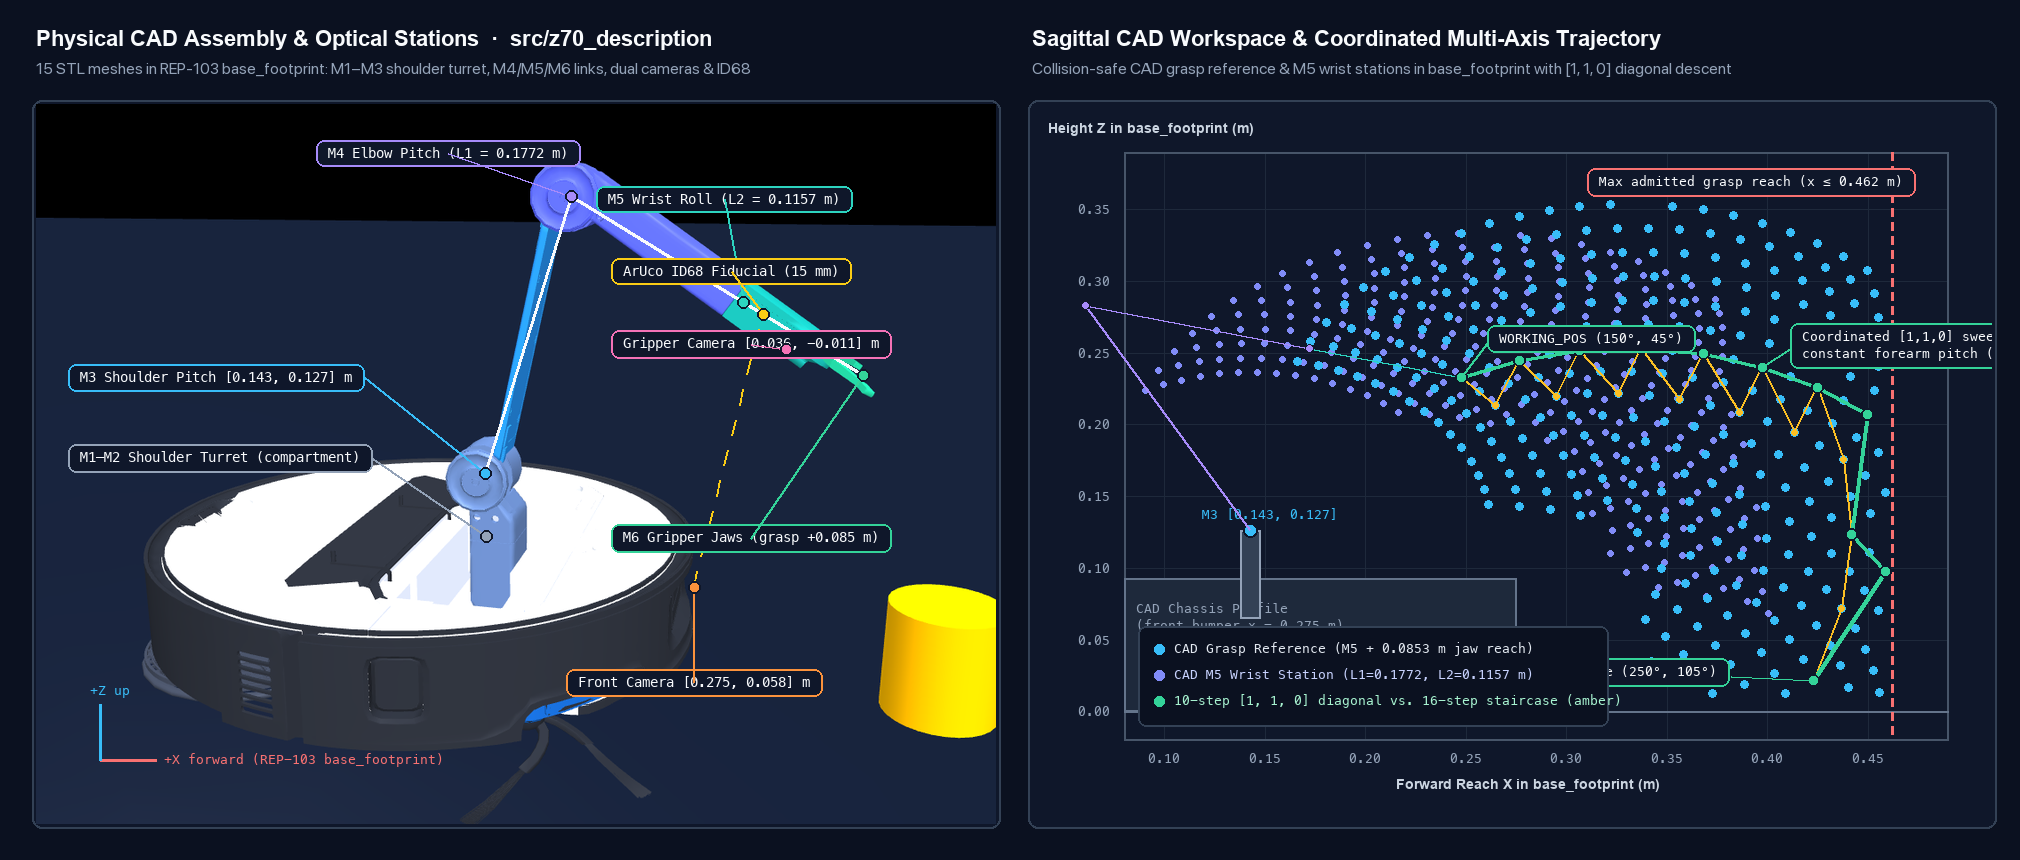
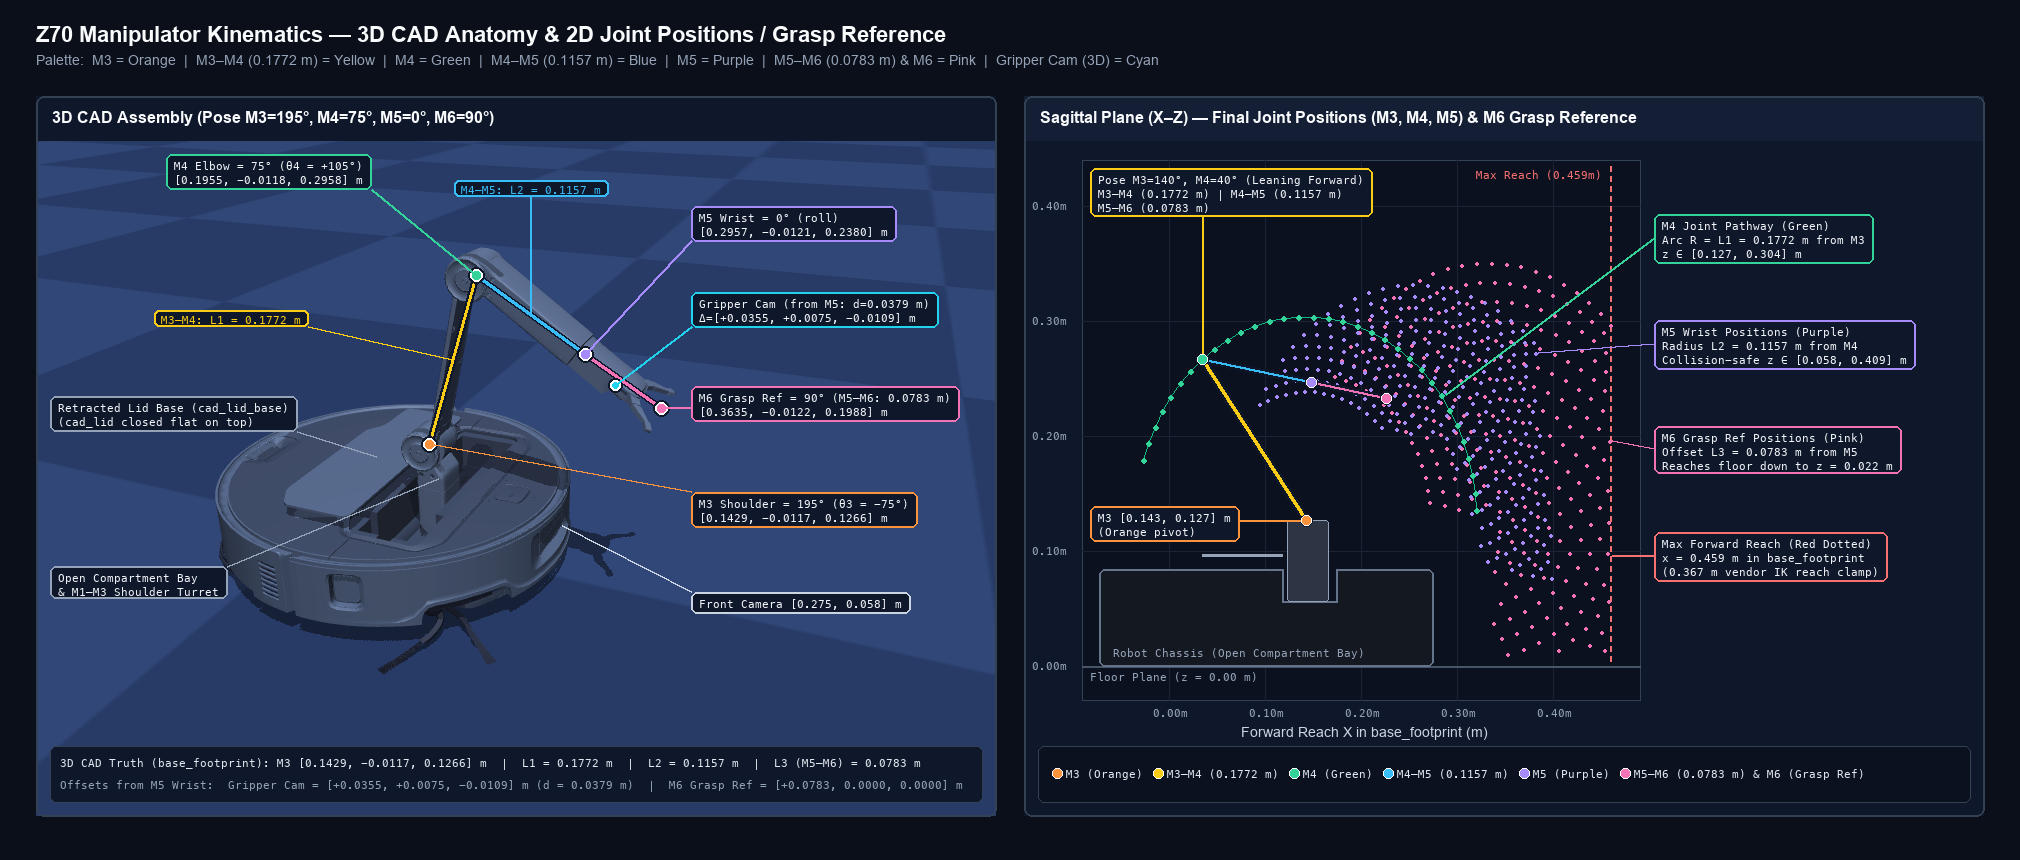
refactor: update arm kinematics and CAD integration; enhance simulation visuals

diff --git a/src/z70_sim/z70_sim/world.py b/src/z70_sim/z70_sim/world.py
@@ -285,10 +285,17 @@ class SimWorld:
     <texture name="floor_tex" type="2d" file="{self.floor_tex_path}"/>
     <material name="floor_mat" texture="floor_tex" texrepeat="2 2" texuniform="true" reflectance="0" specular="0"/>
     <material name="wall_mat" rgba="0.86 0.86 0.84 1" reflectance="0" specular="0"/>
-    <material name="body_mat" rgba="0.96 0.96 0.96 1" specular="0.05"/>
-    <material name="dark_mat" rgba="0.14 0.14 0.15 1" specular="0.05"/>
+    <material name="body_mat" rgba="0.14 0.16 0.20 1" specular="0.20"/>
+    <material name="dark_mat" rgba="0.10 0.11 0.14 1" specular="0.15"/>
     <mesh name="cad_body" file="cad_body.stl"/>
+    <mesh name="cad_lid_base" file="cad_lid_base.stl"/>
+    <mesh name="cad_lid" file="cad_lid.stl"/>
     <mesh name="cad_bumper_front" file="cad_bumper_front.stl"/>
+    <mesh name="cad_bumper_rear" file="cad_bumper_rear.stl"/>
+    <mesh name="cad_wheels" file="cad_wheels.stl"/>
+    <mesh name="cad_mops" file="cad_mops.stl"/>
+    <mesh name="cad_spinners" file="cad_spinners.stl"/>
+    <mesh name="cad_shoulder_mount" file="cad_shoulder_mount.stl"/>
     <mesh name="cad_link1" file="cad_link1.stl"/>
     <mesh name="cad_link2" file="cad_link2.stl"/>
     <mesh name="cad_hand" file="cad_hand.stl"/>
@@ -310,6 +317,16 @@ class SimWorld:
       <joint name="base_yaw" type="hinge" axis="0 0 1"/>
       <geom name="chassis_visual" type="mesh" mesh="cad_body" material="body_mat" contype="0" conaffinity="0"/>
       <geom name="bumper_visual" type="mesh" mesh="cad_bumper_front" material="dark_mat" contype="0" conaffinity="0"/>
+      <geom name="bumper_rear_visual" type="mesh" mesh="cad_bumper_rear" material="dark_mat" contype="0" conaffinity="0"/>
+      <geom name="wheels_visual" type="mesh" mesh="cad_wheels" material="dark_mat" contype="0" conaffinity="0"/>
+      <geom name="mops_visual" type="mesh" mesh="cad_mops" material="dark_mat" contype="0" conaffinity="0"/>
+      <geom name="spinners_visual" type="mesh" mesh="cad_spinners" material="dark_mat" contype="0" conaffinity="0"/>
+      <body name="arm_lid_base" pos="0 0 0">
+        <geom name="lid_base_visual" type="mesh" mesh="cad_lid_base" material="dark_mat" contype="0" conaffinity="0"/>
+        <body name="arm_compartment_lid" pos="0.0348 0 0.0966">
+          <geom name="lid_visual" type="mesh" mesh="cad_lid" material="dark_mat" contype="0" conaffinity="0"/>
+        </body>
+      </body>
 
       <camera name="front" pos="{self.cal['front_camera_x_m']} 0 {cam.h / 1000.0}" xyaxes="{front_xy}"
               resolution="1600 1200" sensorsize="1.6 1.2" focalpixel="{cam.f} {cam.f}"
@@ -317,6 +334,7 @@ class SimWorld:
 
       <body name="arm_vendor_frame" pos="{vendor_pos}" xyaxes="{vendor_xy}">
         <body name="arm_shoulder_link" pos="{sh_pos}">
+          <geom name="shoulder_mount_visual" type="mesh" mesh="cad_shoulder_mount" material="dark_mat" contype="0" conaffinity="0"/>
           <body name="arm_link1" pos="0 0 0" xyaxes="{m3_xy}">
             <inertial pos="{l1 / 2} 0 0" mass="0.18" diaginertia="0.0005 0.0005 0.0002"/>
             <joint name="m3_joint" type="hinge" axis="0 1 0"/>

diff --git a/src/z70_manipulation/z70_manipulation/planner.py b/src/z70_manipulation/z70_manipulation/planner.py
@@ -35,9 +35,8 @@ def measured_point(state,endpoint):
             shoulder[1]+x*math.sin(YAW)+endpoint[1]*math.cos(YAW),shoulder[2]+z]
 
 def operational_point(state):
-    """Return grasp reference point in base_footprint coordinates."""
-    T=hand.hand_pose(state)
-    return (T[:3,:3]@hand.grasp_reference()+T[:3,3]).tolist()
+    """Return CAD grasp reference point in base_footprint coordinates."""
+    return hand.cad_forward(state)[3].tolist()
 
 
 def grasp_point(state=(240,95)):
@@ -220,11 +219,15 @@ def tip_floor_bound(state):
 def arm_kinematics(state):
     """Return forward kinematics, floor clearance, and safety status for a joint state."""
     st = (float(state[0]), float(state[1]), float(state[2]) if len(state) > 2 else 0., float(state[3]) if len(state) > 3 else 90.)
-    op = operational_point(st)
+    sh, el, wr, gr = hand.cad_forward(st)
+    op = gr.tolist()
     vx, vz = vendor_endpoint(st)
     return dict(
         state=list(st),
         safe=safe(st),
+        shoulder_point_m=[round(float(x), 4) for x in sh],
+        elbow_point_m=[round(float(x), 4) for x in el],
+        wrist_point_m=[round(float(x), 4) for x in wr],
         operational_point_m=[round(x, 4) for x in op],
         grasp_point_m=[round(op[0], 4), round(op[1], 4), 0.0],
         tip_height_m=round(tip_height(st), 4),

diff --git a/src/z70_description/z70_description/arm_model.py b/src/z70_description/z70_description/arm_model.py
@@ -295,6 +295,21 @@ def grasp_reference():
     return np.array([tip[0] + CONFIG['grasp_aim_ahead_of_tip_m'], 0, CONFIG['root_z_m']])
 
 
+def cad_forward(state):
+    """Return CAD (shoulder_xyz, elbow_xyz, wrist_xyz, grasp_xyz) in base_footprint."""
+    m3, m4, m5, _ = validate_state(state)
+    a1 = math.radians(270 - m3 + CAL['measured_M3_offset_deg'])
+    a2 = math.radians(m4 - m3 + 90)
+    yaw = math.radians(CAL['arm_yaw_deg'])
+    shoulder = np.array(CAD['shoulder_in_base_m'], float)
+    elbow = shoulder + rpy([0, 0, yaw]) @ np.array([L1 * math.cos(a1), 0.0, L1 * math.sin(a1)])
+    B = rpy([0, -a2, yaw])
+    Q = rpy([math.radians(m5), 0, 0])
+    wrist = elbow + B @ np.array([L2, 0.0, 0.0])
+    grasp = wrist + (B @ Q) @ grasp_reference()
+    return shoulder, elbow, wrist, grasp
+
+
 def articulated_geometry(state):
     """Per-finger poses, terminal points, pad regions, OBBs, and terminal gap."""
     st = validate_state(state); T = hand_pose(st)

diff --git a/src/z70_driver/z70_driver/driver.py b/src/z70_driver/z70_driver/driver.py
@@ -878,9 +878,10 @@ class Driver(CommandSurfaces, Node):
             m.validity.value = 3; m.validity.reason = 'COMMAND_DERIVED_STOW'
         m.unknown_reason = '' if usable else 'UNRECONCILED_OR_UNKNOWN'
         q = app_to_urdf(**estimate_to_app(d))
+        lid = 0.058 if d.get('state') == 'IN_ROBOT' else 0.0
         display = JointState(); display.header = deepcopy(m.header)
         display.name = [*q, 'shoulder_lift', 'shoulder_yaw', 'arm_lid']
-        display.position = [*q.values(), 0., 0., 0.]
+        display.position = [*q.values(), 0., 0., lid]
         if usable:
             # Only the three arm joints have even heuristic uncertainty in ArmEstimate.
             m.joints = JointState(header=deepcopy(m.header), name=list(q)[:3], position=list(q.values())[:3])

diff --git a/docs/z70-arm-model.md b/docs/z70-arm-model.md
@@ -14,10 +14,10 @@ Paths below are relative to `src/z70_description/`.
 
 | Source | Geometry and Role |
 | :--- | :--- |
-| [`config/cad_arm.yaml`](../src/z70_description/config/cad_arm.yaml) & [`meshes/cad/`](../src/z70_description/meshes/cad/README.md) | CAD link lengths `L1 = 0.1772 m` (`M3 -> M4`), `L2 = 0.1157 m` (`M4 -> M5`); shoulder pivot `[0.1429, -0.0117, 0.1266] m` in `base_footprint`; wrist camera offset `[0.0355, 0.0075, -0.0109] m`. Drives URDF visual/structural links, `arm_model.hand_pose()`, and `planner` physical points. |
+| [`config/cad_arm.yaml`](../src/z70_description/config/cad_arm.yaml) & [`meshes/cad/`](../src/z70_description/meshes/cad/README.md) | CAD link lengths `L1 = 0.1772 m` (`M3 -> M4`), `L2 = 0.1157 m` (`M4 -> M5`); shoulder pivot `[0.1429, -0.0117, 0.1266] m` in `base_footprint`; wrist camera offset `[0.0355, 0.0075, -0.0109] m`. Drives URDF visual/structural links, `arm_model.cad_forward()`, `arm_model.hand_pose()`, and `planner` physical points (`operational_point()`, `arm_kinematics()`). |
 | [`config/mount_calibration.yaml`](../src/z70_description/config/mount_calibration.yaml) | Front camera mount (`x = 0.275 m`, `z = 0.0582 m`), arm-frame yaw/origin alignment, `M3` angular offset, and underside `ID68` marker transform used by `perception.front_jaw()`. |
-| [`config/pincher_geometry.yaml`](../src/z70_description/config/pincher_geometry.yaml) | Housing and finger collision boxes, grasp reference point, 15 mm clearance margin, and jaw `opening_ratio = 2/3`. |
-| [`z70_description/arm_model.py`](../src/z70_description/z70_description/arm_model.py) | `vendor_forward()`, `vendor_inverse()`, and `vendor_check()` implementing the app's 2-D sagittal model (`SHOULDER = (0.0475, 0.14) m`, `VENDOR_L1 = 0.1775 m`, `VENDOR_L2 = 0.205 m`). |
+| [`config/pincher_geometry.yaml`](../src/z70_description/config/pincher_geometry.yaml) | Housing and finger collision boxes, grasp reference point (`+0.0853 m` ahead of `M5`), 15 mm clearance margin, and jaw `opening_ratio = 2/3`. |
+| [`z70_description/arm_model.py`](../src/z70_description/z70_description/arm_model.py) | `cad_forward(state)` returning `(shoulder, elbow, wrist, grasp)` in `base_footprint`, plus `vendor_forward()`, `vendor_inverse()`, and `vendor_check()` implementing the app's 2-D sagittal model strictly for firmware admission diagnostics. |
 
 ---
 
